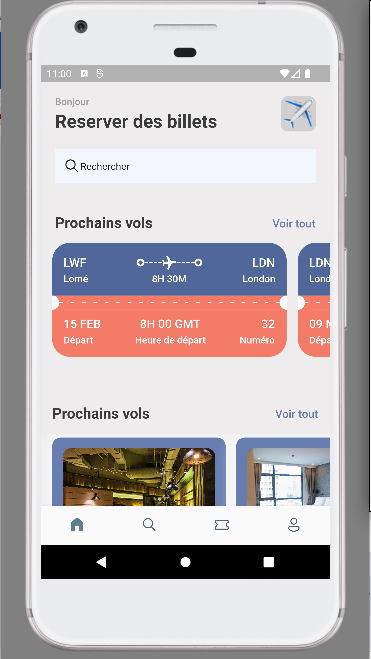
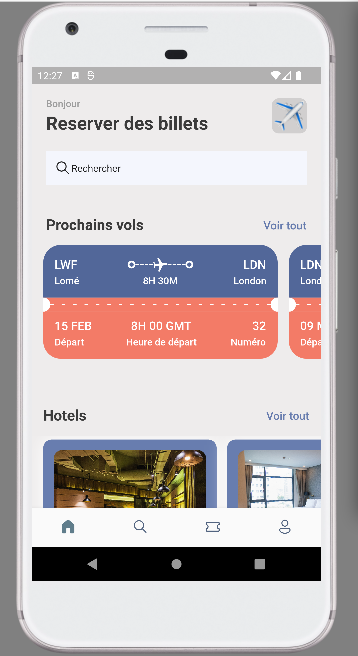
v1.0

diff --git a/lib/utils/double_text_row_widget.dart b/lib/utils/double_text_row_widget.dart
@@ -13,7 +13,7 @@ class DoubleTextRowWidget extends StatelessWidget {
                   mainAxisAlignment: MainAxisAlignment.spaceBetween,
                   children: [
                     Text(
-                      "Prochains vols",
+                      "${bigText}",
                       style: Styles.headLineStyle2,
                     ),
 
